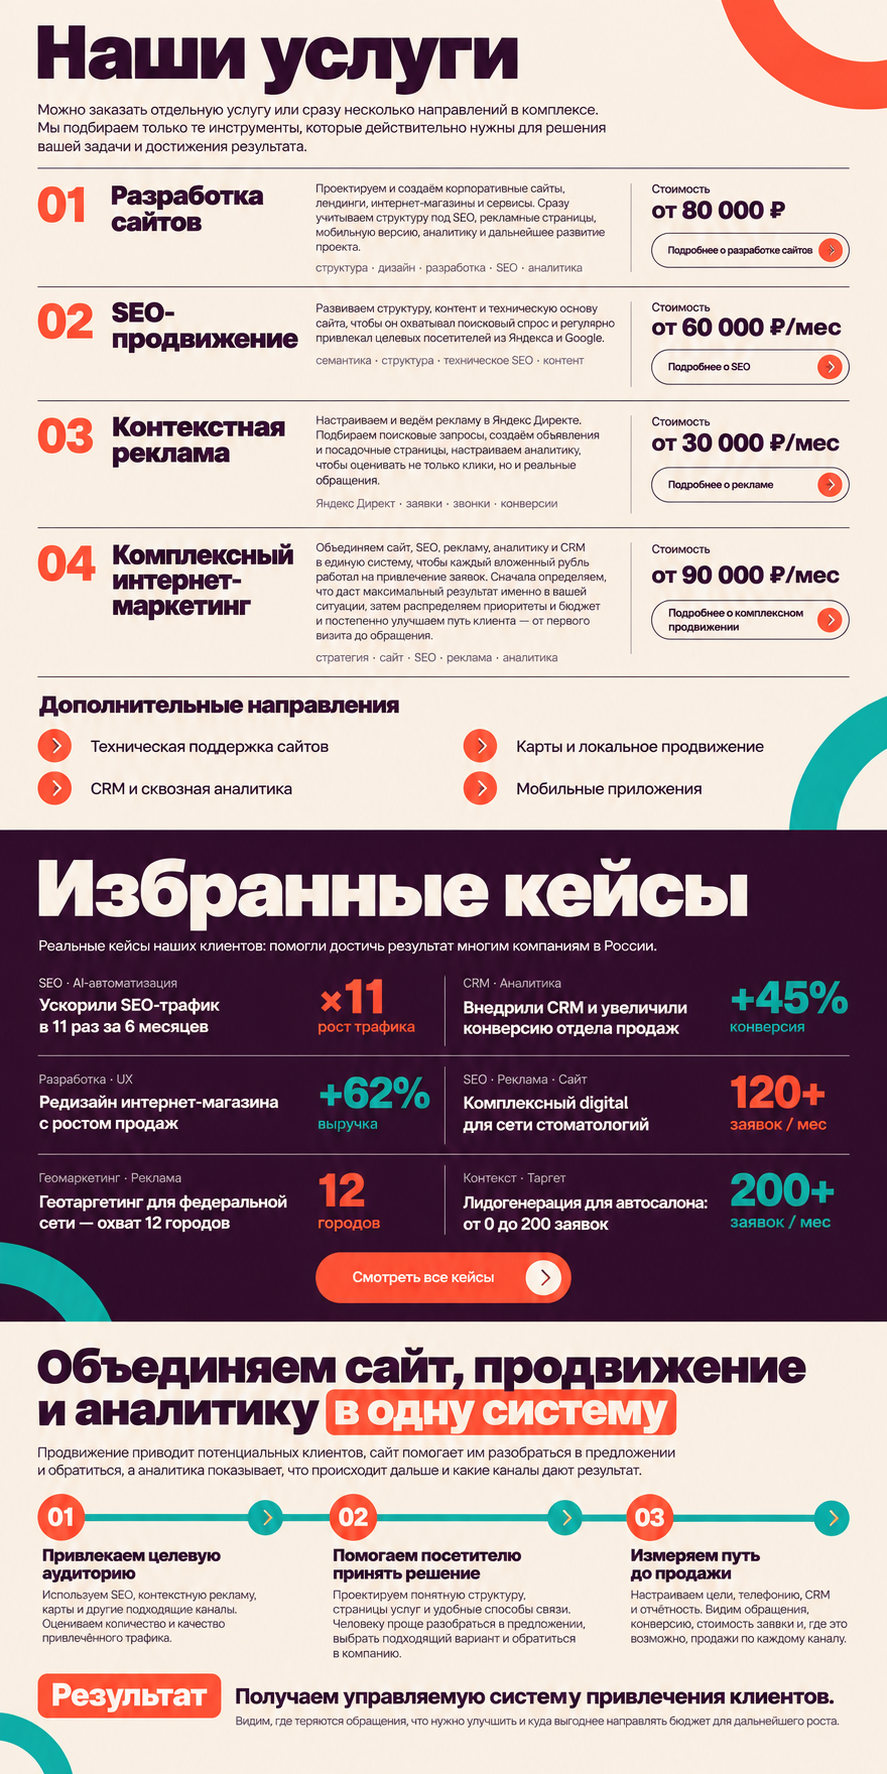
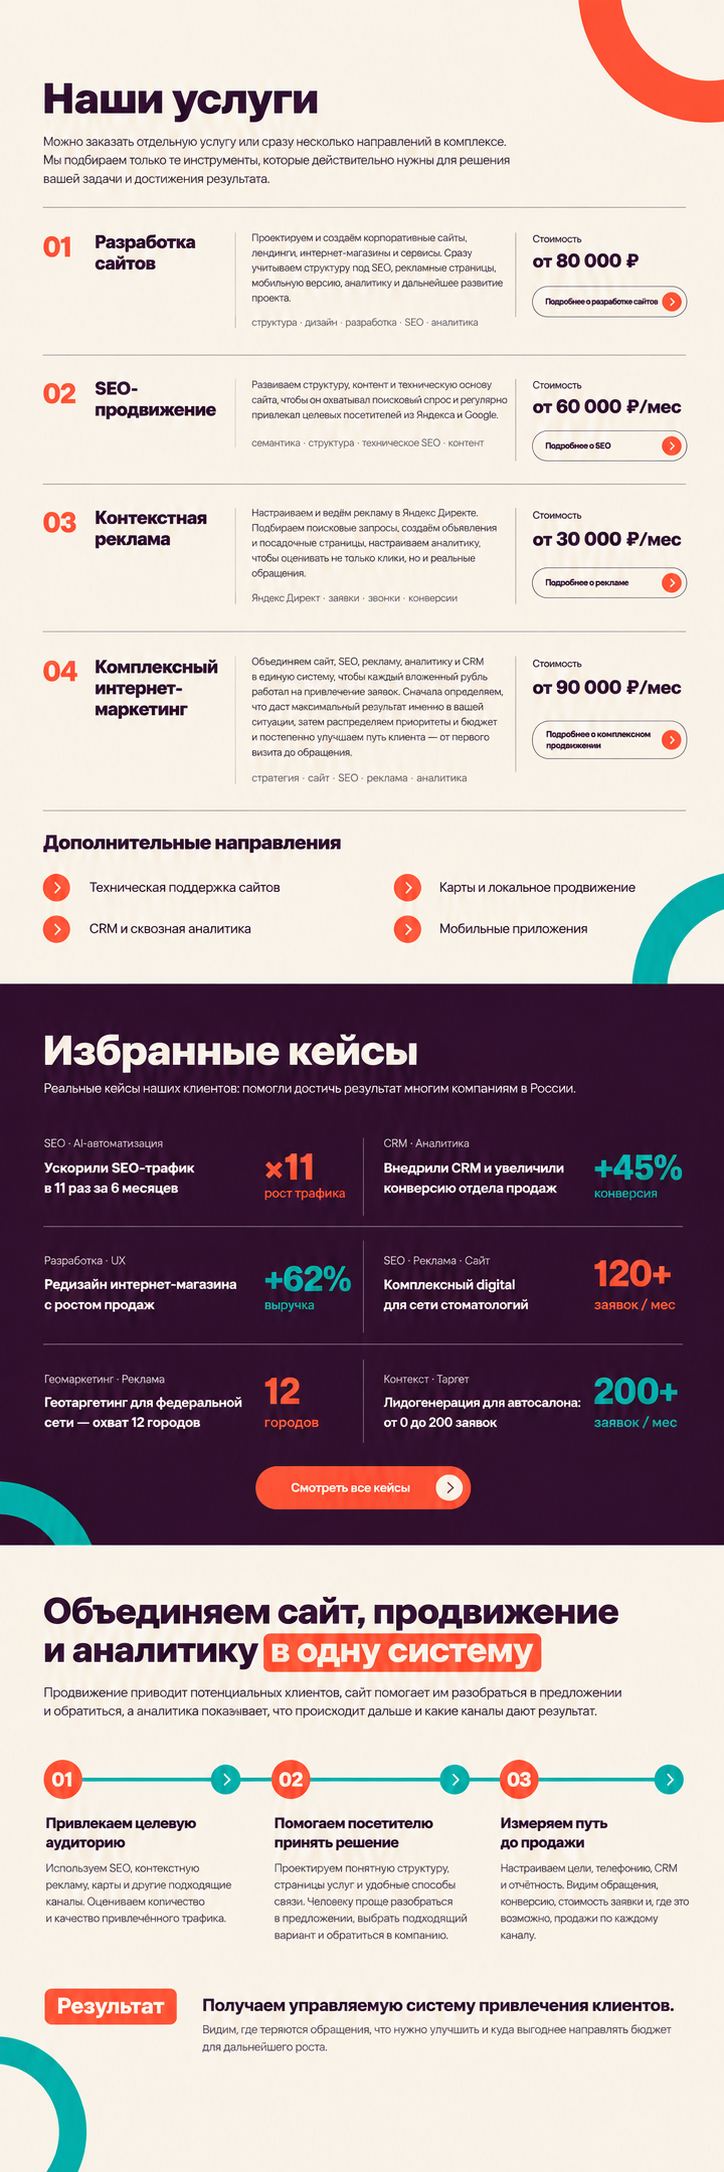
Refine spacing and typography in the three extended concepts

diff --git a/concepts/new-version/extended/07.html b/concepts/new-version/extended/07.html
@@ -25,7 +25,7 @@
     <div class="canvas-viewport" tabindex="0" aria-label="Прокручиваемый макет">
       <div class="composition" id="composition">
         <img class="hero-image" src="../assets/variant-07.png" width="1536" height="1024" alt="Первый экран: Поток — больше воздуха" fetchpriority="high" decoding="async">
-        <img class="continuation-image" src="assets/continuation-07.png" width="768" height="2048" alt="Продолжение варианта 07: четыре основные услуги и дополнительные направления, шесть кейсов, три элемента системы привлечения клиентов и результат. Все тексты доступны ниже." decoding="async">
+        <img class="continuation-image" src="assets/continuation-07.png?v=20261008-spacing" width="724" height="2172" alt="Продолжение варианта 07: четыре основные услуги и дополнительные направления, шесть кейсов, три элемента системы привлечения клиентов и результат. Все тексты доступны ниже." decoding="async">
       </div>
     </div>
     <div class="review-bottom">

diff --git a/concepts/new-version/extended/05.html b/concepts/new-version/extended/05.html
@@ -25,7 +25,7 @@
     <div class="canvas-viewport" tabindex="0" aria-label="Прокручиваемый макет">
       <div class="composition" id="composition">
         <img class="hero-image" src="../assets/variant-05.png" width="1536" height="1024" alt="Первый экран: Масштаб и живая лента" fetchpriority="high" decoding="async">
-        <img class="continuation-image" src="assets/continuation-05.png" width="822" height="1914" alt="Продолжение варианта 05: четыре основные услуги и дополнительные направления, шесть кейсов, три элемента системы привлечения клиентов и результат. Все тексты доступны ниже." decoding="async">
+        <img class="continuation-image" src="assets/continuation-05.png?v=20261008-spacing" width="727" height="2163" alt="Продолжение варианта 05: четыре основные услуги и дополнительные направления, шесть кейсов, три элемента системы привлечения клиентов и результат. Все тексты доступны ниже." decoding="async">
       </div>
     </div>
     <div class="review-bottom">

diff --git a/concepts/new-version/extended/04.html b/concepts/new-version/extended/04.html
@@ -25,7 +25,7 @@
     <div class="canvas-viewport" tabindex="0" aria-label="Прокручиваемый макет">
       <div class="composition" id="composition">
         <img class="hero-image" src="../assets/variant-04.png" width="1536" height="1024" alt="Первый экран: Живая типографика" fetchpriority="high" decoding="async">
-        <img class="continuation-image" src="assets/continuation-04.png" width="887" height="1774" alt="Продолжение варианта 04: четыре основные услуги и дополнительные направления, шесть кейсов, три элемента системы привлечения клиентов и результат. Все тексты доступны ниже." decoding="async">
+        <img class="continuation-image" src="assets/continuation-04.png?v=20261008-spacing" width="724" height="2172" alt="Продолжение варианта 04: четыре основные услуги и дополнительные направления, шесть кейсов, три элемента системы привлечения клиентов и результат. Все тексты доступны ниже." decoding="async">
       </div>
     </div>
     <div class="review-bottom">

diff --git a/concepts/new-version/extended/README.md b/concepts/new-version/extended/README.md
@@ -11,3 +11,5 @@
 Все четыре исходных текстовых блока также доступны под макетом в раскрываемом разделе. При экспорте их текст сверяется с `prototype/index.html` после нормализации только пробелов. Источник совпадает со снимком от 3 октября: Git blob `07dd490c0c494e2775f65564bfc54d6cdf9780f6`. Числа и результаты являются данными прототипа, отдельной проверкой кейсов публикация не является.
 
 Исходные PNG первых экранов используются по прежним ссылкам. У публичных копий новых изображений удалены служебные метаданные; пиксельные данные сохранены. Промпты и материалы подготовки хранятся только в локальном проекте. Окончательное направление ещё не выбрано.
+
+По дополнительному запросу 8 октября продолжения обновлены: увеличены паузы между разделами и внутренние поля, уменьшены заголовки и выровнена типографическая иерархия. У 05 также убраны повторные номера шагов. Первые экраны и исходные тексты сохранены. Для новых изображений используется параметр версии, чтобы браузер загружал актуальные макеты.
